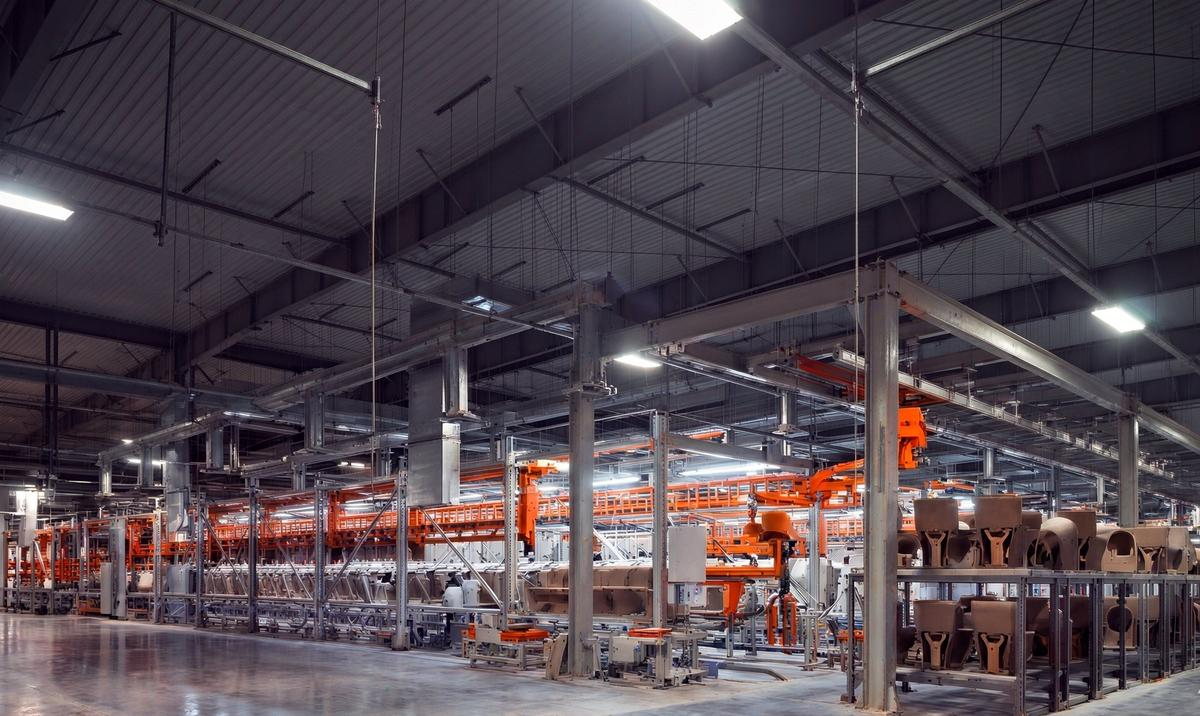
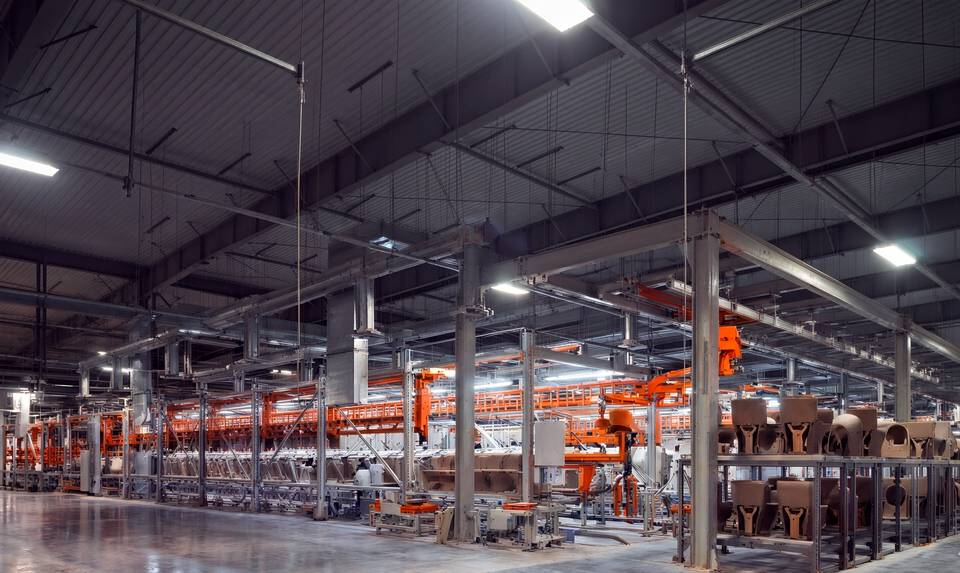
Compress all site images for faster loading.

diff --git a/about.html b/about.html
@@ -11,7 +11,7 @@
     <link rel="icon" href="assets/favicon.ico" sizes="any" />
   <link rel="icon" type="image/png" href="assets/favicon.png" />
   <link rel="apple-touch-icon" href="assets/apple-touch-icon.png" />
-  <link rel="stylesheet" href="css/site.css?v=40" />
+  <link rel="stylesheet" href="css/site.css?v=41" />
 </head>
 <body>
   <header class="site-header">
@@ -91,16 +91,16 @@
       </div>
       <div class="profile-photos">
         <figure>
-          <img src="assets/about/facility-outdoor.jpg?v=40" alt="气体供应与生产现场" width="1560" height="1148" loading="lazy" />
+          <img src="assets/about/facility-outdoor.jpg?v=41" alt="气体供应与生产现场" width="1560" height="1148" loading="lazy" />
         </figure>
         <figure>
-          <img src="assets/about/facility-fab.jpg?v=40" alt="特气系统设备现场" width="1585" height="1140" loading="lazy" />
+          <img src="assets/about/facility-fab.jpg?v=41" alt="特气系统设备现场" width="1585" height="1140" loading="lazy" />
         </figure>
         <figure>
-          <img src="assets/about/facility-cleanroom.jpg?v=40" alt="洁净工艺环境" width="1660" height="1172" loading="lazy" />
+          <img src="assets/about/facility-cleanroom.jpg?v=41" alt="洁净工艺环境" width="1660" height="1172" loading="lazy" />
         </figure>
         <figure>
-          <img src="assets/about/facility-production.jpg?v=40" alt="智能制造产线" width="1920" height="1147" loading="lazy" />
+          <img src="assets/about/facility-production.jpg?v=41" alt="智能制造产线" width="1920" height="1147" loading="lazy" />
         </figure>
       </div>
     </div>
@@ -176,11 +176,11 @@
       </div>
       <div class="honor-certs">
         <article class="honor-card cert">
-          <img src="assets/cert-business-license.png?v=1" alt="营业执照" />
+          <img src="assets/cert-business-license.jpg?v=41" alt="营业执照" />
           <span>营业执照（展示件）</span>
         </article>
         <article class="honor-card cert">
-          <img src="assets/cert-hazardous.png?v=3" alt="危险化学品经营许可证" />
+          <img src="assets/cert-hazardous.jpg?v=41" alt="危险化学品经营许可证" />
           <span>危险化学品经营许可证（展示件）</span>
         </article>
       </div>

diff --git a/index.html b/index.html
@@ -11,13 +11,13 @@
     <link rel="icon" href="assets/favicon.ico" sizes="any" />
   <link rel="icon" type="image/png" href="assets/favicon.png" />
   <link rel="apple-touch-icon" href="assets/apple-touch-icon.png" />
-  <link rel="stylesheet" href="css/site.css?v=40" />
+  <link rel="stylesheet" href="css/site.css?v=41" />
 </head>
 <body>
   <header class="site-header">
     <div class="header-inner">
       <a class="brand has-logo" href="index.html">
-        <img class="brand-logo" src="assets/logo.png?v=7" alt="CHC 华瑞化学" />
+        <img class="brand-logo" src="assets/logo.png?v=41" alt="CHC 华瑞化学" />
         <div class="brand-text">
           <strong>华瑞化学</strong>
           <span>CHC Chemical Technology (Wuxi) Co., Ltd</span>
@@ -52,10 +52,10 @@
 
   <section class="home-hero" data-banner>
     <div class="banner-track" aria-hidden="true">
-      <div class="banner-slide is-active" style="background-image:url('assets/banner/banner-real-1.jpg')"></div>
-      <div class="banner-slide" style="background-image:url('assets/banner/banner-real-2.jpg')"></div>
-      <div class="banner-slide" style="background-image:url('assets/banner/banner-real-3.jpg')"></div>
-      <div class="banner-slide" style="background-image:url('assets/banner/banner-real-4.jpg')"></div>
+      <div class="banner-slide is-active" style="background-image:url('assets/banner/banner-real-1.jpg?v=41')"></div>
+      <div class="banner-slide" style="background-image:url('assets/banner/banner-real-2.jpg?v=41')"></div>
+      <div class="banner-slide" style="background-image:url('assets/banner/banner-real-3.jpg?v=41')"></div>
+      <div class="banner-slide" style="background-image:url('assets/banner/banner-real-4.jpg?v=41')"></div>
     </div>
     <button class="banner-nav prev" type="button" data-banner-prev aria-label="上一张">‹</button>
     <button class="banner-nav next" type="button" data-banner-next aria-label="下一张">›</button>

diff --git a/css/site.css b/css/site.css
@@ -254,7 +254,7 @@ a {
   inset: 0;
   background:
     linear-gradient(120deg, rgba(11, 11, 12, 0.72) 0%, rgba(11, 42, 91, 0.55) 55%, rgba(11, 11, 12, 0.7) 100%),
-    url("../assets/banner/hero-products.jpg?v=40")
+    url("../assets/banner/hero-products.jpg?v=41")
       center / cover no-repeat;
   z-index: -1;
   transform: scale(1.02);
@@ -264,7 +264,7 @@ a {
 .hero--about::before {
   background-image:
     linear-gradient(120deg, rgba(11, 11, 12, 0.72) 0%, rgba(11, 42, 91, 0.55) 55%, rgba(11, 11, 12, 0.7) 100%),
-    url("../assets/banner/hero-about.jpg?v=40");
+    url("../assets/banner/hero-about.jpg?v=41");
   background-position: center;
   background-size: cover;
   background-repeat: no-repeat;
@@ -273,7 +273,7 @@ a {
 .hero--products::before {
   background-image:
     linear-gradient(120deg, rgba(11, 11, 12, 0.72) 0%, rgba(11, 42, 91, 0.55) 55%, rgba(11, 11, 12, 0.7) 100%),
-    url("../assets/banner/hero-products.jpg?v=40");
+    url("../assets/banner/hero-products.jpg?v=41");
   background-position: center;
   background-size: cover;
   background-repeat: no-repeat;
@@ -282,7 +282,7 @@ a {
 .hero--contact::before {
   background-image:
     linear-gradient(120deg, rgba(11, 11, 12, 0.72) 0%, rgba(11, 42, 91, 0.55) 55%, rgba(11, 11, 12, 0.7) 100%),
-    url("../assets/banner/hero-contact.jpg?v=33");
+    url("../assets/banner/hero-contact.jpg?v=41");
   background-position: center;
   background-size: cover;
   background-repeat: no-repeat;
@@ -996,7 +996,7 @@ a.product-card:hover {
   min-height: 280px;
   background:
     linear-gradient(160deg, rgba(11, 42, 91, 0.55), rgba(11, 11, 12, 0.35)),
-    url("../assets/about/facility-fab.jpg?v=40")
+    url("../assets/about/facility-fab.jpg?v=41")
       center / cover no-repeat;
 }
 

diff --git a/products/gas-industrial.html b/products/gas-industrial.html
@@ -11,13 +11,13 @@
   <link rel="preconnect" href="https://fonts.googleapis.com" />
   <link rel="preconnect" href="https://fonts.gstatic.com" crossorigin />
   <link href="https://fonts.googleapis.com/css2?family=Noto+Sans+SC:wght@400;500;600;700&family=Syne:wght@600;700&display=swap" rel="stylesheet" />
-  <link rel="stylesheet" href="../css/site.css?v=14" />
+  <link rel="stylesheet" href="../css/site.css?v=41" />
 </head>
 <body>
   <header class="site-header">
     <div class="header-inner">
       <a class="brand has-logo" href="../index.html">
-        <img class="brand-logo" src="../assets/logo.png?v=7" alt="CHC 华瑞化学" />
+        <img class="brand-logo" src="../assets/logo.png?v=41" alt="CHC 华瑞化学" />
         <div class="brand-text">
           <strong>华瑞化学</strong>
           <span>CHC Chemical Technology (Wuxi) Co., Ltd</span>

diff --git a/products/gas-mixed.html b/products/gas-mixed.html
@@ -11,13 +11,13 @@
   <link rel="preconnect" href="https://fonts.googleapis.com" />
   <link rel="preconnect" href="https://fonts.gstatic.com" crossorigin />
   <link href="https://fonts.googleapis.com/css2?family=Noto+Sans+SC:wght@400;500;600;700&family=Syne:wght@600;700&display=swap" rel="stylesheet" />
-  <link rel="stylesheet" href="../css/site.css?v=14" />
+  <link rel="stylesheet" href="../css/site.css?v=41" />
 </head>
 <body>
   <header class="site-header">
     <div class="header-inner">
       <a class="brand has-logo" href="../index.html">
-        <img class="brand-logo" src="../assets/logo.png?v=7" alt="CHC 华瑞化学" />
+        <img class="brand-logo" src="../assets/logo.png?v=41" alt="CHC 华瑞化学" />
         <div class="brand-text">
           <strong>华瑞化学</strong>
           <span>CHC Chemical Technology (Wuxi) Co., Ltd</span>

diff --git a/products/gas-specialty.html b/products/gas-specialty.html
@@ -11,13 +11,13 @@
   <link rel="preconnect" href="https://fonts.googleapis.com" />
   <link rel="preconnect" href="https://fonts.gstatic.com" crossorigin />
   <link href="https://fonts.googleapis.com/css2?family=Noto+Sans+SC:wght@400;500;600;700&family=Syne:wght@600;700&display=swap" rel="stylesheet" />
-  <link rel="stylesheet" href="../css/site.css?v=14" />
+  <link rel="stylesheet" href="../css/site.css?v=41" />
 </head>
 <body>
   <header class="site-header">
     <div class="header-inner">
       <a class="brand has-logo" href="../index.html">
-        <img class="brand-logo" src="../assets/logo.png?v=7" alt="CHC 华瑞化学" />
+        <img class="brand-logo" src="../assets/logo.png?v=41" alt="CHC 华瑞化学" />
         <div class="brand-text">
           <strong>华瑞化学</strong>
           <span>CHC Chemical Technology (Wuxi) Co., Ltd</span>

diff --git a/products/bsgs-bsgr.html b/products/bsgs-bsgr.html
@@ -11,13 +11,13 @@
     <link rel="icon" href="../assets/favicon.ico" sizes="any" />
   <link rel="icon" type="image/png" href="../assets/favicon.png" />
   <link rel="apple-touch-icon" href="../assets/apple-touch-icon.png" />
-  <link rel="stylesheet" href="../css/site.css?v=9" />
+  <link rel="stylesheet" href="../css/site.css?v=41" />
 </head>
 <body>
   <header class="site-header">
     <div class="header-inner">
       <a class="brand has-logo" href="../index.html">
-        <img class="brand-logo" src="../assets/logo.png?v=7" alt="CHC 华瑞化学" />
+        <img class="brand-logo" src="../assets/logo.png?v=41" alt="CHC 华瑞化学" />
         <div class="brand-text">
           <strong>华瑞化学</strong>
           <span>CHC Chemical Technology (Wuxi) Co., Ltd</span>

diff --git a/products/ccb.html b/products/ccb.html
@@ -11,13 +11,13 @@
     <link rel="icon" href="../assets/favicon.ico" sizes="any" />
   <link rel="icon" type="image/png" href="../assets/favicon.png" />
   <link rel="apple-touch-icon" href="../assets/apple-touch-icon.png" />
-  <link rel="stylesheet" href="../css/site.css?v=9" />
+  <link rel="stylesheet" href="../css/site.css?v=41" />
 </head>
 <body>
   <header class="site-header">
     <div class="header-inner">
       <a class="brand has-logo" href="../index.html">
-        <img class="brand-logo" src="../assets/logo.png?v=7" alt="CHC 华瑞化学" />
+        <img class="brand-logo" src="../assets/logo.png?v=41" alt="CHC 华瑞化学" />
         <div class="brand-text">
           <strong>华瑞化学</strong>
           <span>CHC Chemical Technology (Wuxi) Co., Ltd</span>

diff --git a/products/cdm.html b/products/cdm.html
@@ -11,13 +11,13 @@
     <link rel="icon" href="../assets/favicon.ico" sizes="any" />
   <link rel="icon" type="image/png" href="../assets/favicon.png" />
   <link rel="apple-touch-icon" href="../assets/apple-touch-icon.png" />
-  <link rel="stylesheet" href="../css/site.css?v=9" />
+  <link rel="stylesheet" href="../css/site.css?v=41" />
 </head>
 <body>
   <header class="site-header">
     <div class="header-inner">
       <a class="brand has-logo" href="../index.html">
-        <img class="brand-logo" src="../assets/logo.png?v=7" alt="CHC 华瑞化学" />
+        <img class="brand-logo" src="../assets/logo.png?v=41" alt="CHC 华瑞化学" />
         <div class="brand-text">
           <strong>华瑞化学</strong>
           <span>CHC Chemical Technology (Wuxi) Co., Ltd</span>

diff --git a/products/filling.html b/products/filling.html
@@ -11,13 +11,13 @@
     <link rel="icon" href="../assets/favicon.ico" sizes="any" />
   <link rel="icon" type="image/png" href="../assets/favicon.png" />
   <link rel="apple-touch-icon" href="../assets/apple-touch-icon.png" />
-  <link rel="stylesheet" href="../css/site.css?v=9" />
+  <link rel="stylesheet" href="../css/site.css?v=41" />
 </head>
 <body>
   <header class="site-header">
     <div class="header-inner">
       <a class="brand has-logo" href="../index.html">
-        <img class="brand-logo" src="../assets/logo.png?v=7" alt="CHC 华瑞化学" />
+        <img class="brand-logo" src="../assets/logo.png?v=41" alt="CHC 华瑞化学" />
         <div class="brand-text">
           <strong>华瑞化学</strong>
           <span>CHC Chemical Technology (Wuxi) Co., Ltd</span>

diff --git a/products/ftb.html b/products/ftb.html
@@ -11,13 +11,13 @@
     <link rel="icon" href="../assets/favicon.ico" sizes="any" />
   <link rel="icon" type="image/png" href="../assets/favicon.png" />
   <link rel="apple-touch-icon" href="../assets/apple-touch-icon.png" />
-  <link rel="stylesheet" href="../css/site.css?v=9" />
+  <link rel="stylesheet" href="../css/site.css?v=41" />
 </head>
 <body>
   <header class="site-header">
     <div class="header-inner">
       <a class="brand has-logo" href="../index.html">
-        <img class="brand-logo" src="../assets/logo.png?v=7" alt="CHC 华瑞化学" />
+        <img class="brand-logo" src="../assets/logo.png?v=41" alt="CHC 华瑞化学" />
         <div class="brand-text">
           <strong>华瑞化学</strong>
           <span>CHC Chemical Technology (Wuxi) Co., Ltd</span>

diff --git a/products/gas-box.html b/products/gas-box.html
@@ -11,13 +11,13 @@
     <link rel="icon" href="../assets/favicon.ico" sizes="any" />
   <link rel="icon" type="image/png" href="../assets/favicon.png" />
   <link rel="apple-touch-icon" href="../assets/apple-touch-icon.png" />
-  <link rel="stylesheet" href="../css/site.css?v=9" />
+  <link rel="stylesheet" href="../css/site.css?v=41" />
 </head>
 <body>
   <header class="site-header">
     <div class="header-inner">
       <a class="brand has-logo" href="../index.html">
-        <img class="brand-logo" src="../assets/logo.png?v=7" alt="CHC 华瑞化学" />
+        <img class="brand-logo" src="../assets/logo.png?v=41" alt="CHC 华瑞化学" />
         <div class="brand-text">
           <strong>华瑞化学</strong>
           <span>CHC Chemical Technology (Wuxi) Co., Ltd</span>
